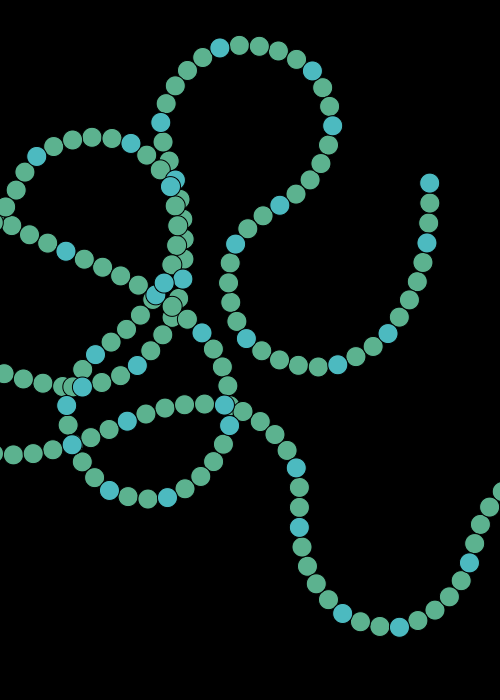
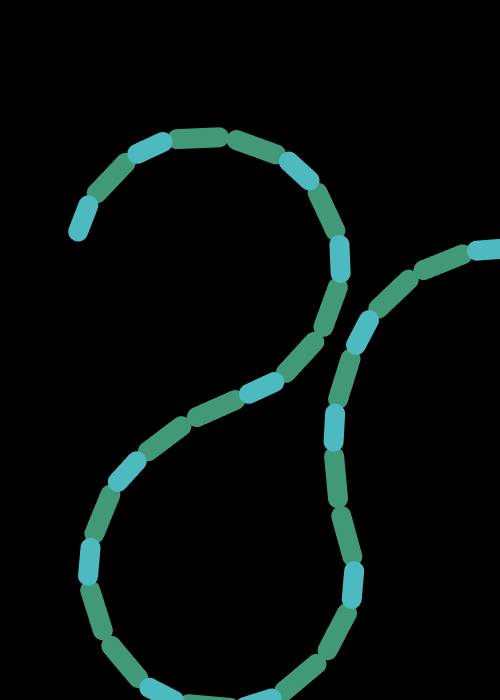
Tweak animation to match ABOP

Changed region(s): [[0.0, 0.03, 1.0, 1.0]]

diff --git a/Anabaena/Anabaena.js b/Anabaena/Anabaena.js
@@ -7,7 +7,11 @@ import { prevent_mobile_scroll } from "../sketchlib/prevent_mobile_scroll.js";
 import { LSystem } from "./LSystem.js";
 import { sec_to_frames, Tween } from "../sketchlib/Tween.js";
 import { AnimationChain, Joint } from "../sketchlib/AnimationChain.js";
-import { CirclePrimitive, GroupPrimitive } from "../sketchlib/primitives.js";
+import {
+  CirclePrimitive,
+  GroupPrimitive,
+  LinePrimitive,
+} from "../sketchlib/primitives.js";
 import { Color, Style } from "../sketchlib/Style.js";
 
 const INITIAL_POSITION = Point.point(WIDTH / 2, HEIGHT - 50);
@@ -15,18 +19,23 @@ const MIN_BEND_ANGLE = (7 * Math.PI) / 8;
 
 const LENGTH_SHORT = 20;
 const LENGTH_LONG = 2 * LENGTH_SHORT;
+const LENGTH_BEFORE_SPLIT = 3 * LENGTH_SHORT;
+
 const DURATION_GROWTH = sec_to_frames(1);
 const MAX_SYMBOLS = 100;
 const MAX_SPEED = 10;
 
+// light blue
 const COLOR_CELL_S = Color.from_hex_code("#4cbac0");
-const COLOR_CELL_L = Color.from_hex_code("#5cb28f");
+// dark sea green
+const COLOR_CELL_L = Color.from_hex_code("#419977");
+const CELL_THICKNESS = 20;
 const STYLE_CELL_S = new Style()
-  .with_fill(COLOR_CELL_S)
-  .with_stroke(Color.BLACK);
+  .with_stroke(COLOR_CELL_S)
+  .with_width(CELL_THICKNESS);
 const STYLE_CELL_L = new Style()
-  .with_fill(COLOR_CELL_L)
-  .with_stroke(Color.BLACK);
+  .with_stroke(COLOR_CELL_L)
+  .with_width(CELL_THICKNESS);
 
 class AnabaenaCatenula {
   constructor() {
@@ -43,11 +52,22 @@ class AnabaenaCatenula {
     this.current_symbols = this.polarized_fibonacci.start_symbol;
 
     /**
-     * @type {Tween}
+     * Tween used for S cells that grow into L cells
+     * @type {Tween<number>}
      */
     this.growth_tween = Tween.scalar(
       LENGTH_SHORT,
       LENGTH_LONG,
+      0,
+      DURATION_GROWTH
+    );
+
+    /**
+     * Tween used for L cells that grow bigger before splitting
+     */
+    this.split_tween = Tween.scalar(
+      LENGTH_LONG,
+      LENGTH_BEFORE_SPLIT,
       0,
       DURATION_GROWTH
     );
@@ -112,8 +132,13 @@ class AnabaenaCatenula {
     this.chain = new AnimationChain(split_joints, MIN_BEND_ANGLE);
   }
 
+  /**
+   * Grow the animation chain in between splits
+   * @param {number} frame The frame number
+   */
   grow(frame) {
-    const long_length = this.growth_tween.get_value(frame);
+    const short_length = this.growth_tween.get_value(frame);
+    const long_length = this.split_tween.get_value(frame);
 
     const n = this.chain.length;
     const longer_joints = new Array(n);
@@ -122,7 +147,7 @@ class AnabaenaCatenula {
       const old_joint = this.chain.get_joint(i);
       const symbol = this.current_symbols.charAt(i - 1);
       if (symbol === "s" || symbol === "S") {
-        longer_joints[i] = old_joint;
+        longer_joints[i] = new Joint(old_joint.position, short_length);
       } else {
         longer_joints[i] = new Joint(old_joint.position, long_length);
       }
@@ -131,6 +156,11 @@ class AnabaenaCatenula {
     this.chain = new AnimationChain(longer_joints, MIN_BEND_ANGLE);
   }
 
+  /**
+   * Depending on where we are in the simulation, either grow cells or
+   * split them.
+   * @param {number} frame The frame number
+   */
   grow_or_split(frame) {
     if (
       this.current_symbols.length > MAX_SYMBOLS &&
@@ -142,11 +172,17 @@ class AnabaenaCatenula {
     if (this.growth_tween.is_done(frame)) {
       this.split();
       this.growth_tween.restart(frame, DURATION_GROWTH);
+      this.split_tween.restart(frame, DURATION_GROWTH);
     } else {
       this.grow(frame);
     }
   }
 
+  /**
+   * Update the simulation
+   * @param {Point} mouse Mouse coordinates
+   * @param {number} frame frame number
+   */
   update(mouse, frame) {
     this.grow_or_split(frame);
     this.move_towards(mouse);
@@ -154,34 +190,26 @@ class AnabaenaCatenula {
 
   render() {
     const positions = this.chain.get_positions();
-    const circles_l = [];
-    const circles_s = [];
+    const l_cells = [];
+    const s_cells = [];
     for (let i = 1; i < positions.length; i++) {
       const prev = positions[i - 1];
       const curr = positions[i];
       const symbol = this.current_symbols.charAt(i - 1);
 
-      if (symbol === "s" || symbol === "S") {
-        const midpoint = prev.add(curr);
-        const radius = prev.sub(curr).ideal_norm() / 2;
-        const circle = new CirclePrimitive(midpoint, radius);
+      // Move the end points slightly apart so the result looks like distinct
+      // cells
+      const start = Point.lerp(prev, curr, 0.15);
+      const end = Point.lerp(prev, curr, 0.85);
 
-        circles_s.push(circle);
-      } else {
-        const forward = prev.sub(curr).normalize();
-        const radius = LENGTH_SHORT / 2;
-
-        const center_offset = forward.scale(radius);
-
-        let circle_a = new CirclePrimitive(curr.add(center_offset), radius);
-        let circle_b = new CirclePrimitive(prev.sub(center_offset), radius);
-        circles_l.push(circle_a, circle_b);
-      }
+      const cell = new LinePrimitive(start, end);
+      const cell_list = symbol === "s" || symbol === "S" ? s_cells : l_cells;
+      cell_list.push(cell);
     }
 
     return new GroupPrimitive([
-      new GroupPrimitive(circles_l, STYLE_CELL_L),
-      new GroupPrimitive(circles_s, STYLE_CELL_S),
+      new GroupPrimitive(l_cells, STYLE_CELL_L),
+      new GroupPrimitive(s_cells, STYLE_CELL_S),
     ]);
   }
 }
